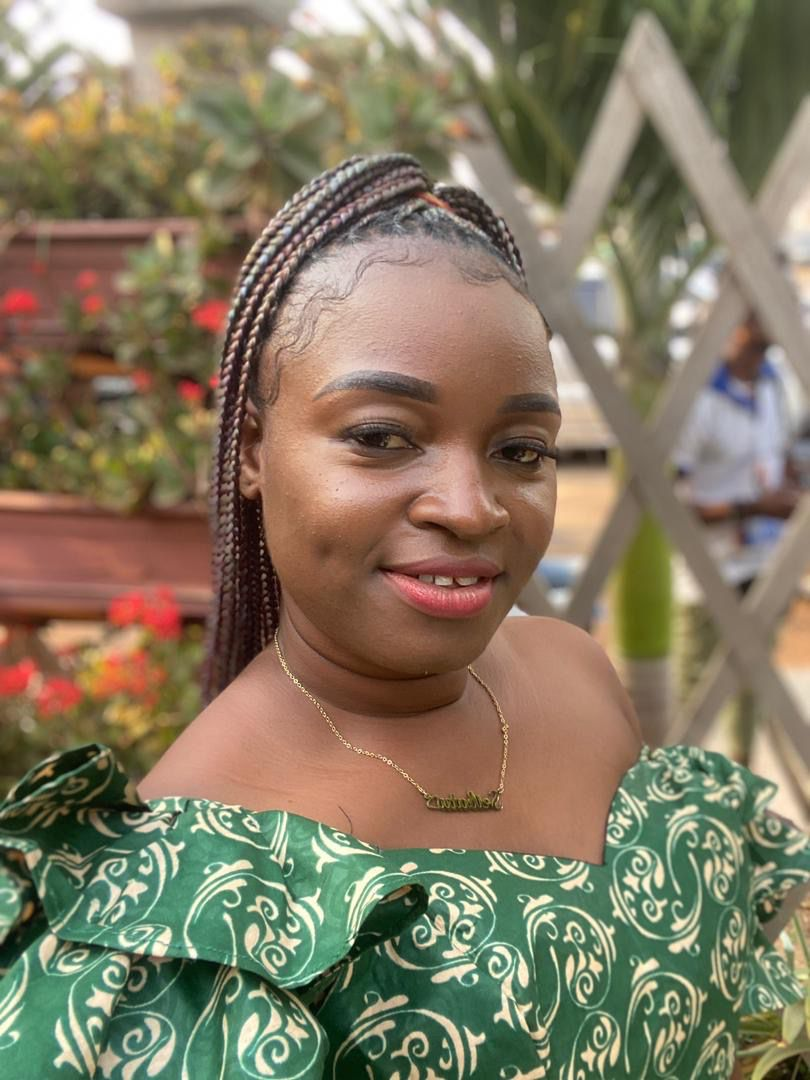
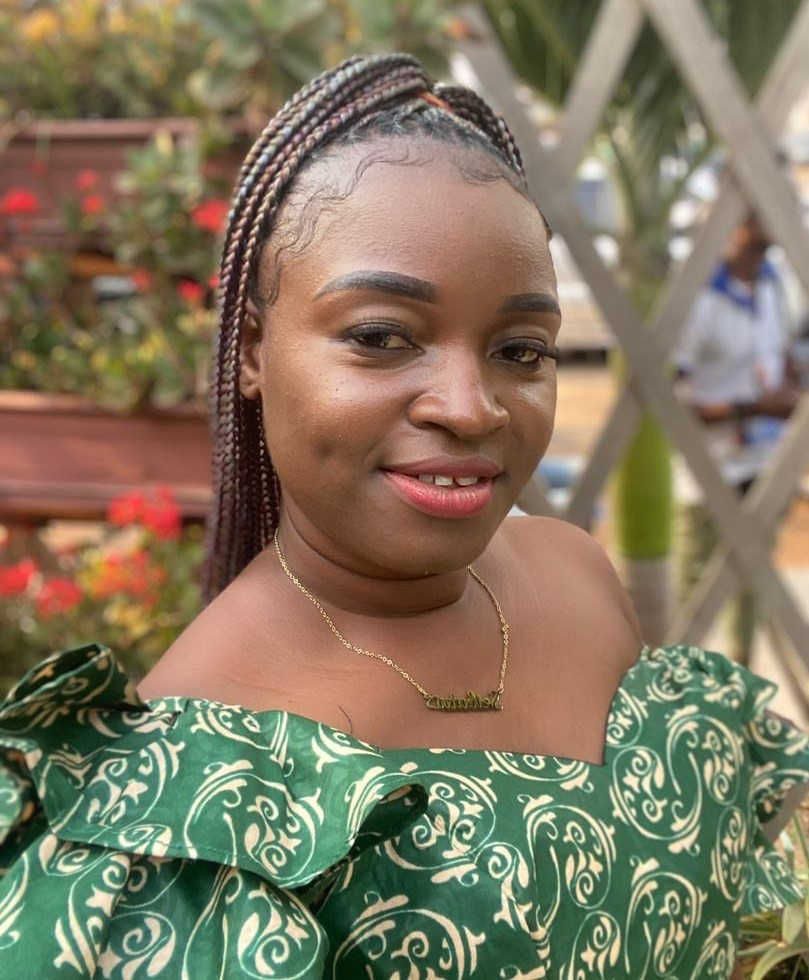
Added new members to the Senior management team

diff --git a/src/constants/index.ts b/src/constants/index.ts
@@ -75,6 +75,15 @@ import {
   HealthImage,
   SustainableGrowthImage,
   EducationImage,
+  Wurie,
+  Jeneba,
+  Charles,
+  Andrew,
+  Bintu,
+  Musa,
+  Mariama,
+  Edward,
+  Ruth,
 } from "../assets";
 import {
   Director,
@@ -1704,52 +1713,100 @@ export const SMgtTeam: SMgtTeamType[] = [
     title: "Country Director",
     image: CountryDirector,
   },
-  // {
-  //   id: 2,
-  //   name: "Siapha Kamara",
-  //   title: "CEO of SEND West Africa",
-  //   image: CEO,
-  // },
   {
-    id: 3,
+    id: 2,
     name: "Agnes Bockarie",
     title: "Finance Director",
     image: FinanceDirector,
   },
   {
-    id: 4,
+    id: 3,
     name: "Brima Mansaray",
-    title: "Head of Program-Gender",
+    title: "Head of Program-Governance and Gender",
     image: Brima,
   },
   {
-    id: 5,
+    id: 4,
     name: "Zainab Juma Jusu",
     title: "Business Development and Compliance Manager",
     image: Zainab,
   },
   {
-    id: 6,
+    id: 5,
     name: "Allieu Marrah",
     title: "Head of Program-Education",
     image: Allieu,
   },
   {
-    id: 7,
+    id: 6,
     name: "Lillian Sesay",
     title: "Human Resource Manager",
     image: Lillian,
   },
   {
-    id: 8,
+    id: 7,
     name: "Tity Simbo Kamara",
     title: "Head of Program-Climate & Disaster Resilience",
     image: Tity,
   },
   {
-    id: 9,
+    id: 8,
     name: "Seibatu Kuyateh",
-    title: "Head of Procurement and Logistics",
+    title: "Administrative and Procurement Manager",
     image: Seibatu,
+  },
+  {
+    id: 9,
+    name: "Wurie Kargbo",
+    title: "Communication Manager",
+    image: Wurie,
+  },
+  {
+    id: 10,
+    name: "Jeneba Combey",
+    title: "District Program Manager",
+    image: Jeneba,
+  },
+  {
+    id: 11,
+    name: "Charles Momoh",
+    title: "District Program Manager",
+    image: Charles,
+  },
+  {
+    id: 12,
+    name: "Andrew Saffa",
+    title: "District Program Manager",
+    image: Andrew,
+  },
+  {
+    id: 13,
+    name: "Bintu Sia Gborie",
+    title: "Head of Program Health and Wash",
+    image: Bintu,
+  },
+  {
+    id: 14,
+    name: "Alhaji Musa Kamara",
+    title: "Advocacy Advisor",
+    image: Musa,
+  },
+  {
+    id: 15,
+    name: "Mariama Jalloh",
+    title: "District Program Manager",
+    image: Mariama,
+  },
+  {
+    id: 16,
+    name: "Edward Gborie",
+    title: "MEAL Manager",
+    image: Edward,
+  },
+  {
+    id: 17,
+    name: "Ruth Kumba Yokie",
+    title: "District Program Manager",
+    image: Ruth,
   },
 ];

diff --git a/src/components/TeamCard.tsx b/src/components/TeamCard.tsx
@@ -11,7 +11,11 @@ const TeamCard = ({
 }) => {
   return (
     <div className={`h-[450px] w-full relative`}>
-        <img src={image} className="absolute top-0 left-0 object-cover object-center h-full w-full" alt="" />
+      <img
+        src={image}
+        className="absolute top-0 left-0 object-cover object-top h-full w-full"
+        alt=""
+      />
       <div className="grid grid-cols-[60px_1fr] absolute bottom-0 left-0 w-full h-[120px] z-10 bg-lightgrey">
         <div className="grid place-content-center gap-4">
           <div className="bg-white w-[30px] h-[30px] rounded-full grid place-items-center">
@@ -52,10 +56,10 @@ const TeamCard = ({
           </div>
         </div>
         <div className="bg-white rounded-bl-[40px] px-8 flex flex-col justify-center">
-            <div>
-                <h3 className={`${styles.paragraph3} text-secondary`}>{title}</h3>
-                <h2 className={`${styles.heading2} text-black`}>{name}</h2>
-            </div>
+          <div>
+            <h3 className={`${styles.paragraph3} text-secondary`}>{title}</h3>
+            <h2 className={`${styles.heading2} text-black`}>{name}</h2>
+          </div>
         </div>
       </div>
     </div>

diff --git a/src/assets/index.ts b/src/assets/index.ts
@@ -154,3 +154,12 @@ export { default as ResourceMobilisationStrategy } from "./RESOURCE MOBILISATION
 export { default as StrategyEvaluationReport } from "./strategy-evaluation-report.jpg";
 export { default as SendCompanyProfile } from "./sendcompanyprofile.jpg";
 export { default as YoutubeLogo } from "./youtube.png";
+export { default as Wurie } from "./wurie-kargbo.jpeg";
+export { default as Jeneba } from "./jeneba-combey.jpeg";
+export { default as Charles } from "./charles-momoh.jpeg";
+export { default as Andrew } from "./andrew-saffa.jpeg";
+export { default as Bintu } from "./bintu-sia-gborie.jpeg";
+export { default as Musa } from "./musa-kamara.jpeg";
+export { default as Mariama } from "./mariama-jalloh.jpeg";
+export { default as Edward } from "./edward-gborie.jpeg";
+export { default as Ruth } from "./ruth-kumba-yokie.jpeg";
